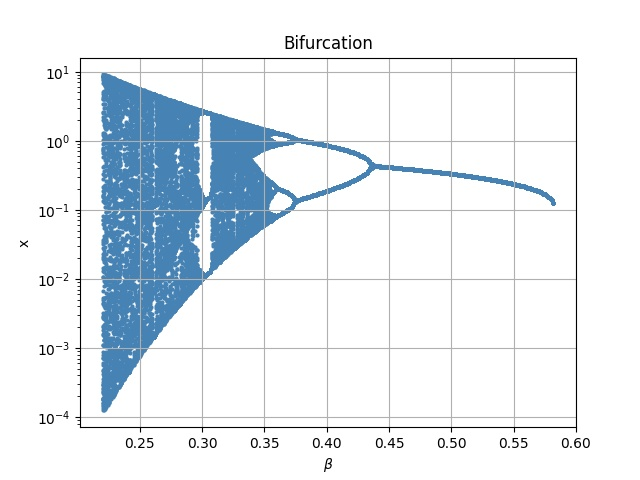
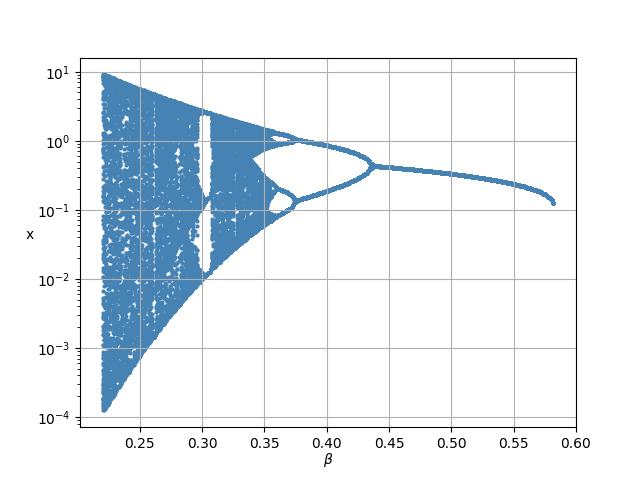
Upd

Changed region(s): [[0.4375, 0.0625, 0.5938, 0.125], [0.5, 0.9375, 0.5312, 1.0], [0.0312, 0.4688, 0.0625, 0.5312]]

diff --git a/grpah/runner.py b/grpah/runner.py
@@ -512,10 +512,10 @@ def run_bifurcation():
 
     (Plotter()
         .setup_x_label('$\\beta$')
-        .setup_y_label('x')
+        .setup_y_label('x', label_pad=5)
         .setup_y_scale(scale.log)
         .setup_grid(grid.major)
-        .setup_title('Bifurcation')
+        # .setup_title('Bifurcation')
         .scatter(source[0], source[1], '.', colors.steel_blue)
      # .show())
         .show_last())
@@ -632,7 +632,12 @@ def run_bifurcation_with_absorbing_area():
     )
 
     (Plotter()
-        ._setup(r'$\beta$', 'x', 'log', 'major', 'Bifurcation')
+        .setup_x_label('$\\beta$')
+        .setup_y_label('x', label_pad=5)
+        .setup_y_scale(scale.log)
+        .setup_grid(grid.major)
+        # .setup_title("Bifurcation")
+        # ._setup(r'$\beta$', 'x', 'log', 'major', 'Bifurcation')
         .scatter(draw_x, draw_y, '.', colors.steel_blue)
         .plot(source[0], source[1], ',', colors.red)
         .plot(source[0], source[2], ',', colors.red)

diff --git a/latex/deterministic/texfiles/bifurcation.tex b/latex/deterministic/texfiles/bifurcation.tex
@@ -7,7 +7,7 @@
         \includegraphics[width=\textwidth]{deterministic/images/bifurcation.jpg}
 
         \captionsetup{justification=centering}
-        \caption{Бифуркационная диаграмма модели \ref{origin}}
+        \caption{Бифуркационная диаграмма модели (\ref{origin})}
         \label{bifurcation}
     \end{figure}
 

diff --git a/grpah/main.py b/grpah/main.py
@@ -29,7 +29,7 @@ if __name__ == "__main__":
     # run_compare_chaos_bifurcation()
 
     # Показать график бифуркации с absorbing area
-    # run_bifurcation_with_absorbing_area()
+    run_bifurcation_with_absorbing_area()
 
     # Показать показатель Ляпунова
     # run_lyapunov()
